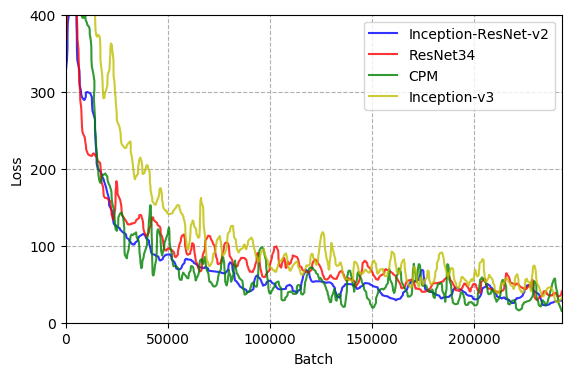
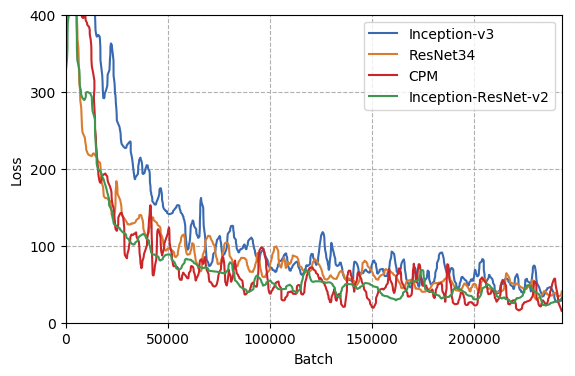
Changed the colors for the plots

diff --git a/plots/plot.py b/plots/plot.py
@@ -60,7 +60,7 @@ def plot_loss(in_files, out_file, names, colors, smooth_val, limits, dims=(640, 
 
         if smooth_val[i] != -1:
             values = _smooth_i(values, smooth_val[i])
-        plt.plot(steps, values[:1000], color=colors[i], alpha=0.8, label=names[i])
+        plt.plot(steps, values[:1000], color=colors[i], alpha=1.0, label=names[i])
 
     plt.ylim(ymin=0)
     plt.xlim(xmin=0)
@@ -108,7 +108,7 @@ def plot_acc(in_files, out_file, names, colors, smooth_val, limits, dims=(640, 4
 
         if smooth_val[i] != -1:
             values = _smooth_i(values, smooth_val[i])
-        plt.plot(steps, values[:1000], color=colors[i], alpha=0.8, label=names[i])
+        plt.plot(steps, values[:1000], color=colors[i], alpha=1.0, label=names[i])
 
     plt.ylim(ymin=0)
     plt.xlim(xmin=0)
@@ -144,56 +144,59 @@ def plot_acc(in_files, out_file, names, colors, smooth_val, limits, dims=(640, 4
 
 smooth_var = 10
 
-
+labels = ["Inception-v3", "ResNet34", "CPM", "Inception-ResNet-v2"]
+old_colors = ['b', 'r', 'g', 'y']
+# BLUE, ORANGE, RED, GREEN
+colors = [(57/255,106/255,177/255),(218/255,124/255,48/255), (204/255,37/255,41/255), (62/255,150/255,81/255)]
 ticks = np.arange(0, 500, 100)
-plot_loss([DATA_DIR + "incres_train_loss.csv", DATA_DIR + "resnet_train_loss.csv", DATA_DIR + "glover_train_loss.csv", DATA_DIR + "incep_train_loss.csv"],
+plot_loss([DATA_DIR + "incep_train_loss.csv", DATA_DIR + "resnet_train_loss.csv", DATA_DIR + "glover_train_loss.csv", DATA_DIR + "incres_train_loss.csv"],
           OUT_DIR + 'compare_train_loss.png',
-          ["Inception-ResNet-v2", "ResNet34", "CPM", "Inception-v3"],
-          ['b', 'r', 'g', 'y'],
+          labels,
+          colors,
           [smooth_var*2,smooth_var*2,smooth_var*2,smooth_var*2],
           [243000, 400],
           (640, 400),
           ticks)
 
 ticks = np.arange(0, 0.5, 0.1)
-plot_acc([DATA_DIR + "incres_train_acc.csv", DATA_DIR + "resnet_train_acc.csv", DATA_DIR + "glover_train_acc.csv", DATA_DIR + "incep_train_acc.csv"],
+plot_acc([DATA_DIR + "incep_train_acc.csv", DATA_DIR + "resnet_train_acc.csv", DATA_DIR + "glover_train_acc.csv", DATA_DIR + "incres_train_acc.csv"],
           OUT_DIR + 'compare_train_acc.png',
-         ["Inception-ResNet-v2", "ResNet34", "CPM", "Inception-v3"],
-          ['b', 'r', 'g', 'y'],
+          labels,
+          colors,
           [smooth_var,smooth_var,smooth_var,smooth_var],
           [243000, 0.4],
           (640, 400),
           ticks)
 
 ticks = np.arange(0, 500, 100)
-plot_loss([DATA_DIR + "incres_test_loss.csv", DATA_DIR + "resnet_test_loss.csv", DATA_DIR + "glover_test_loss.csv", DATA_DIR + "incep_test_loss.csv"],
+plot_loss([DATA_DIR + "incep_test_loss.csv", DATA_DIR + "resnet_test_loss.csv", DATA_DIR + "glover_test_loss.csv", DATA_DIR + "incres_test_loss.csv"],
           OUT_DIR + 'compare_test_loss.png',
-          ["Inception-ResNet-v2", "ResNet34", "CPM", "Inception-v3"],
-          ['b', 'r', 'g', 'y'],
+          labels,
+          colors,
           [-1,-1,-1,-1],
           [243000, 400],
           (640, 400),
           ticks)
 
 ticks = np.arange(0, 0.5, 0.1)
-plot_acc([DATA_DIR + "incres_test_acc.csv", DATA_DIR + "resnet_test_acc.csv", DATA_DIR + "glover_test_acc.csv", DATA_DIR + "incep_test_acc.csv"],
+plot_acc([DATA_DIR + "incep_test_acc.csv", DATA_DIR + "resnet_test_acc.csv", DATA_DIR + "glover_test_acc.csv", DATA_DIR + "incres_test_acc.csv"],
           OUT_DIR + 'compare_test_acc.png',
-          ["Inception-ResNet-v2", "ResNet34", "CPM", "Inception-v3"],
-          ['b', 'r', 'g', 'y'],
+          labels,
+          colors,
           [-1,-1,-1,-1],
           [243000, 0.4],
           (640, 400),
           ticks)
 
 # Best model Train + Test
-
 smooth_var = 10
-
+# BLUE, RED
+colors = [(57/255,106/255,177/255), (204/255,37/255,41/255)]
 ticks = np.arange(0, 250, 50)
 plot_loss([DATA_DIR + "incres_train_loss.csv", DATA_DIR + "incres_test_loss.csv"],
           OUT_DIR + 'incres_all_loss.png',
           ["Training", "Validation"],
-          ['b', 'r'],
+          colors,
           [smooth_var, -1],
           [-1, 200],
           (640, 400),
@@ -203,7 +206,7 @@ ticks = np.arange(0, 0.55, 0.1)
 plot_acc([DATA_DIR + "incres_train_acc.csv", DATA_DIR + "incres_test_acc.csv"],
          OUT_DIR + 'incres_all_acc.png',
          ["Training", "Validation"],
-         ['b', 'r'],
+         colors,
          [smooth_var, -1],
          [-1, 0.45],
          (640, 400),
